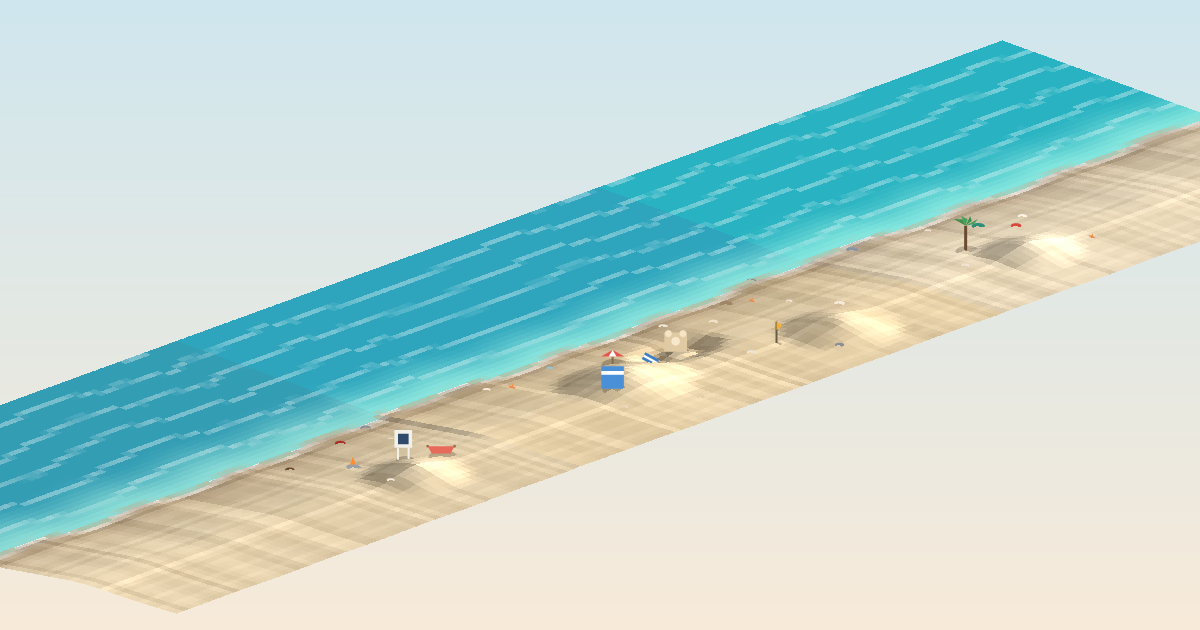
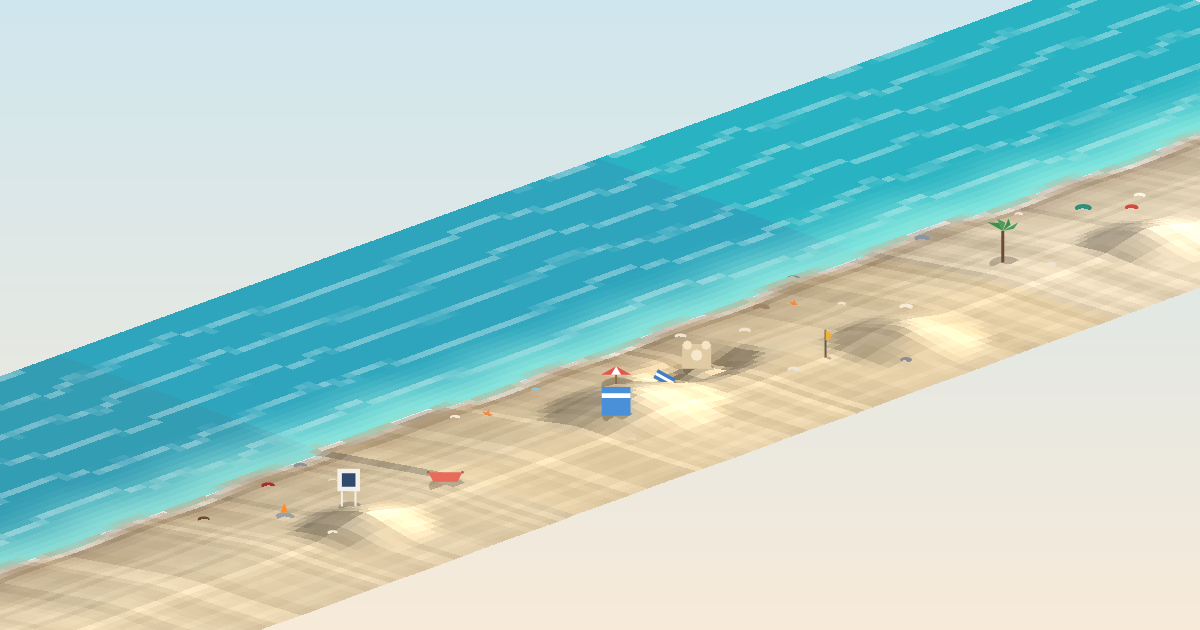
Zoom the 3D share views into the beach being shared (#85)
The isometric renders showed a 14 m slice of each neighbour; the shared
beach was only 34% of the frame. Now each neighbour shows just a 4 m
sliver before it crops off, and the shared beach spans 516 px (43% of the
1200 px picture) in both directions. The flat card is untouched.

Changed region(s): [[0.0, 0.0, 1.0, 1.0]]

diff --git a/server/test/beachImage.test.ts b/server/test/beachImage.test.ts
@@ -32,13 +32,13 @@ function moundSand(cx: number, cy: number, height: number, r = 6, nx = 64): Save
 
 const flat: SavedSand = { nx: 64, ny: 64, delta: new Float32Array(64 * 64), things: [] };
 const centerPanel: IsoPanel = { sand: moundSand(32, 48, 1.2), location: 'bondi', linked: false };
-// A mound on the dry sand of each neighbour, inside the slice the frame
-// shows: the left neighbour's first 14 m (local cell 16 = 8 m in) and the
-// right neighbour's 14 m nearest the centre beach (local cell 48 = 24 m in).
+// A mound on the dry sand of each neighbour, inside the sliver the frame
+// shows: the left neighbour's first 4 m (local cell 4 = 2 m in) and the
+// right neighbour's 4 m nearest the centre beach (local cell 60 = 30 m in).
 // The left neighbour sits flush at +32 m, the right one keeps its 1.6 m gap.
-const leftMound: IsoPanel = { sand: moundSand(16, 48, 1.2), location: 'waikiki', linked: true };
+const leftMound: IsoPanel = { sand: moundSand(4, 48, 1.2), location: 'waikiki', linked: true };
 const leftFlat: IsoPanel = { sand: flat, location: 'waikiki', linked: true };
-const rightMound: IsoPanel = { sand: moundSand(48, 48, 1.2), location: 'piha', linked: false };
+const rightMound: IsoPanel = { sand: moundSand(60, 48, 1.2), location: 'piha', linked: false };
 const rightFlat: IsoPanel = { sand: flat, location: 'piha', linked: false };
 
 function px(buf: Uint8Array, x: number, y: number): [number, number, number] {
@@ -91,9 +91,9 @@ describe('renderIsoBeach', () => {
       const withRight = renderIsoBeach(centerPanel, null, rightMound, { width: W, height: H }, dir);
       const flatRight = renderIsoBeach(centerPanel, null, rightFlat, { width: W, height: H }, dir);
       // The frame with one neighbour: centre 0..32, left 32..64 or right -33.6..-1.6.
-      // The mounds sit in the slice the frame shows (left local 8 m, right local 24 m).
-      const [lx] = isoScreenPoint(W, H, dir, 32 + 8, 24, moundH, 0, 64);
-      const [rx] = isoScreenPoint(W, H, dir, -(32 + 1.6) + 24, 24, moundH, -(32 + 1.6), 32);
+      // The mounds sit in the sliver the frame shows (left local 2 m, right local 30 m).
+      const [lx] = isoScreenPoint(W, H, dir, 32 + 2, 24, moundH, 0, 64);
+      const [rx] = isoScreenPoint(W, H, dir, -(32 + 1.6) + 30, 24, moundH, -(32 + 1.6), 32);
       const dl = maxDiff(withLeft, flatLeft);
       const dr = maxDiff(withRight, flatRight);
       expect(dl.d).toBeGreaterThan(30);
@@ -140,12 +140,13 @@ describe('renderIsoBeach', () => {
 
   it('frames the centre beach big: with neighbours it spans a good part of the picture, and the far ends are cropped off', () => {
     // Before the crop the frame fitted the whole 96 m strip and the centre
-    // beach was 286 px wide (24% of the picture); now it is 403 px (34%),
-    // and the far end of a neighbour is off the frame instead of fitted.
+    // beach was 286 px wide (24% of the picture); the 14 m slice made it
+    // 403 px (34%); the 4 m sliver makes it 516 px (43%), and the far end
+    // of a neighbour is off the frame instead of fitted.
     for (const dir of ['ocean', 'land'] as IsoDir[]) {
       const [x0] = isoScreenPoint(W, H, dir, 0, 16, 0, -(32 + 1.6), 64);
       const [x1] = isoScreenPoint(W, H, dir, 32, 16, 0, -(32 + 1.6), 64);
-      expect(Math.abs(x1 - x0)).toBeGreaterThan(W * 0.3);
+      expect(Math.abs(x1 - x0)).toBeGreaterThan(W * 0.4);
       const [fx] = isoScreenPoint(W, H, dir, 64, 16, 0, -(32 + 1.6), 64);
       expect(fx < 0 || fx > W).toBe(true);
     }
@@ -181,8 +182,13 @@ describe('renderIsoBeach', () => {
     const patch: number[] = [];
     let sum = 0;
     let n = 0;
-    for (let wx = -30; wx <= -24; wx += 1)
-      for (let wy = 20; wy <= 28; wy += 1) {
+    // The visible sliver of the Piha neighbour is local 29.6..32 m, so the
+    // patch sits there (world -4..-2), on dry sand in two bands — wy 12..20
+    // and wy 28..31 — clear of the mound at local 30 m / wy 21..27. The
+    // bands together cover about the same area as the old 6x8 m patch, so
+    // the slow grain has room to vary.
+    for (let wx = -4; wx <= -2; wx += 0.5)
+      for (const wy of [12, 13, 14, 15, 16, 17, 18, 19, 20, 28, 29, 30, 31]) {
         const [sx, sy] = isoScreenPoint(W, H, 'ocean', wx, wy, restHeight(wx + 33.6, wy), -(32 + 1.6), 64).map(Math.round);
         if (sx < 0 || sx >= W || sy < 0 || sy >= H) continue;
         const [r, g, b] = px(img, sx, sy);

diff --git a/server/src/beachImage.ts b/server/src/beachImage.ts
@@ -930,8 +930,9 @@ function drawThings(img: Uint8Array, W: number, H: number, things: Thing[], look
 // from the walk; a linked neighbour sits flush, an unlinked one keeps the
 // 1.6 m diorama gap, and where there is no public neighbour the frame ends
 // at the centre beach — no faded filler shore on any side. The frame shows
-// the centre beach plus a slice (14 m) of each neighbour, so the beach is
-// the subject instead of a thin strip in a void.
+// the centre beach plus a sliver (4 m) of each neighbour, so the beach is
+// the subject instead of a thin strip in a void — the neighbours show just
+// enough to read that there are beaches next door before they crop off.
 //
 // Alongshore the picture is mirrored against a literal offshore camera so
 // left and right match the top-down card (facing the sea, left is +x, so
@@ -965,9 +966,9 @@ interface IsoCam {
   /** +1: camera offshore looking landward (sea in front); -1: camera inland looking seaward */
   sgn: 1 | -1;
 }
-/** metres of each neighbour shown either side of the centre beach */
-const ISO_SHOW = 14;
-/** Fit the frame to the centre beach plus a slice of each neighbour (fx0..fx1 are the strip's ends, 0/32 with no neighbours). The beach is the subject — the frame does not fit the whole 96 m strip, which reads as a thin diagonal in a void. A side with no neighbour ends at the centre beach, with no filler shore past it. */
+/** metres of each neighbour shown either side of the centre beach — a sliver, not a slice: the shared beach is the subject */
+const ISO_SHOW = 4;
+/** Fit the frame to the centre beach plus a sliver of each neighbour (fx0..fx1 are the strip's ends, 0/32 with no neighbours). The beach is the subject — the frame does not fit the whole 96 m strip, which reads as a thin diagonal in a void. A side with no neighbour ends at the centre beach, with no filler shore past it. */
 const isoCam = (W: number, H: number, fx0: number, fx1: number, dir: IsoDir): IsoCam => {
   const vx0 = Math.max(fx0, -ISO_SHOW);
   const vx1 = Math.min(fx1, WORLD + ISO_SHOW);
@@ -1094,7 +1095,7 @@ function fillQuad(img: Uint8Array, W: number, H: number, pts: Pt[], r: number, g
  * picture's left. `land` is the view from the land side, looking out toward
  * the sea: the beach in the foreground, the sea far away, and the neighbours
  * mirrored — the walk-left neighbour is on the picture's right. The frame
- * fits the centre beach plus a slice of each neighbour; a side with no
+ * fits the centre beach plus a sliver of each neighbour; a side with no
  * public neighbour ends at the centre beach, with no filler shore past it.
  */
 export function renderIsoBeach(

diff --git a/server/scripts/render-iso-samples.ts b/server/scripts/render-iso-samples.ts
@@ -78,16 +78,16 @@ function centreBeach(): SavedSand {
   return s;
 }
 
-/** the walk-left neighbour (linked, flush): a palm, a towel, a bucket and ball — only its first 14 m show */
+/** the walk-left neighbour (linked, flush): a palm, a towel, a bucket and ball — only its first 4 m show, so the palm and a shell sit in the sliver */
 function leftBeach(): SavedSand {
   const s = blank();
   mound(s, 8, 26, 0.4, 3);
   s.things = [
-    thing('palmtree', 6, 23, 1.1),
+    thing('palmtree', 2, 23, 1.1),
     thing('towel', 10, 20, 1),
     thing('bucket', 11, 22, 0.8, 0),
     thing('beachball', 12.5, 21, 0.7, 0),
-    thing('shell', 4, 25, 0.6, 1),
+    thing('shell', 3, 25, 0.6, 1),
     thing('shell', 8, 18, 0.5, 3),
     thing('rock', 3, 17, 0.9, 2),
     thing('starfish', 12, 27, 0.6, 0),
@@ -95,14 +95,14 @@ function leftBeach(): SavedSand {
   return s;
 }
 
-/** the walk-right neighbour (unlinked, 1.6 m gap): a lifeguard tower and a bonfire — only the 14 m nearest the centre beach show (local x 18..32) */
+/** the walk-right neighbour (unlinked, 1.6 m gap): a lifeguard tower and a bonfire — only the 4 m nearest the centre beach show (local x 28..32), so a shell, a rock and the hammock sit in the sliver */
 function rightBeach(): SavedSand {
   const s = blank();
   mound(s, 25, 26, 0.4, 3);
   s.things = [
     thing('lifeguardtower', 26, 24, 1.1),
     thing('bonfire', 24, 22, 0.9),
-    thing('hammock', 28, 25, 1),
+    thing('hammock', 31, 25, 1),
     thing('coconut', 22, 19, 0.7, 0),
     thing('coral', 27, 18, 0.8, 1),
     thing('shell', 23, 26, 0.6, 0),

diff --git a/server/src/releaseNotes.ts b/server/src/releaseNotes.ts
@@ -34,6 +34,7 @@ export const RELEASE_NOTES: ReleaseNote[] = [
       'Removed the “off the shore” setting for now — saved beaches stay on the shore.',
       'Visit any public beach in 3D and walk the shore without signing in (from beechshore.com or a shared link).',
       'Every beach page on beechshore.com now has Flat / 3D / From the sea buttons on its picture: the 3D views show your beach as an isometric diorama, from the land looking out to sea or from the sea looking in, with the beaches either side.',
+      'The 3D views on a beach page now zoom into the beach being shared, with just a sliver of the beaches either side before they crop off.',
       'The shop no longer squeezes a pack’s description into a word per line when the “Buy with credit” button is showing: the buttons sit on a row of their own under the text.',
       'Linked neighbors now blend edge to edge into one continuous beach — sand, water, and rolling wave fronts flow smoothly across the seam with no gap, and the surf blends seamlessly out into the open sea. Unlinked beaches along the shore keep their space.',
       'Prizes from the claw and vending machines now look the part on your beach: the pink shell is properly pink, the golden sand dollar is shiny gold, and the rest of the week’s set stands out from the free shells and sea glass.',

diff --git a/docs/STATUS.md b/docs/STATUS.md
@@ -380,9 +380,10 @@ accepted the repo's default branch, so the deploy job ran only there.
   scale show with one public beach either side — linked flush, unlinked
   with the 1.6 m gap — and the neighbours mirror between the two views,
   because you are looking from opposite directions. The frame fits the
-  centre beach plus a 14 m slice of each neighbour, so the beach is the
-  subject; a side with no public neighbour shows no shore at all, with no
-  faded filler. Only public beaches ever appear; a non-public neighbour
+  centre beach plus a 4 m sliver of each neighbour, so the beach being
+  shared is the subject (it spans 516 px, 43% of the picture width); a
+  side with no public neighbour shows no shore at all, with no faded
+  filler. Only public beaches ever appear; a non-public neighbour
   renders as untouched shore.
   `og:image` stays the top-down card. Samples: `docs/shore-iso-sample.png`
   (ocean) and `docs/shore-iso-land-sample.png` (land), re-rendered from a

diff --git a/docs/SHORE_SITE.md b/docs/SHORE_SITE.md
@@ -101,8 +101,8 @@ card and the beach-page strip; from the land the neighbours appear on the
 opposite sides, because you are looking from the other direction. One
 public beach shows on each side — linked flush at 32 m, unlinked keeping
 the 1.6 m gap of untouched shore — and the frame fits the centre beach
-plus a 14 m slice of each neighbour, so the beach is the subject instead
-of a thin strip in a void; a side with no public neighbor shows no shore
+plus a 4 m sliver of each neighbour, so the beach being shared is the
+subject instead of a thin strip in a void; a side with no public neighbor shows no shore
 at all, with no faded empty-shore filler. A non-public neighbor never
 appears: the route only ever fetches neighbours through `shoreGraph.walk`
 with `keep=isPublic`, and the cache key carries the neighbours' save
